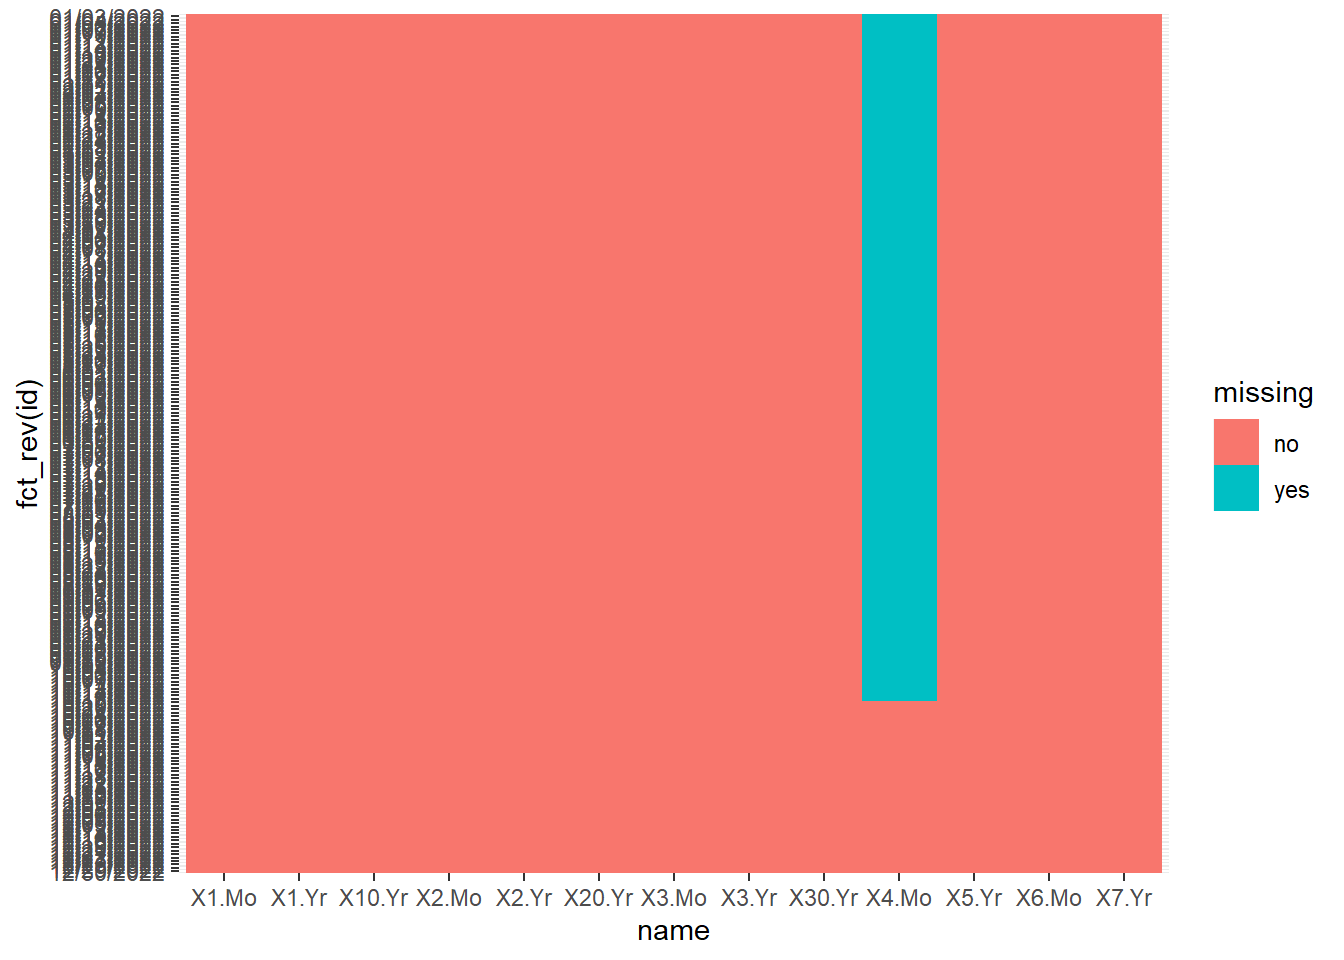
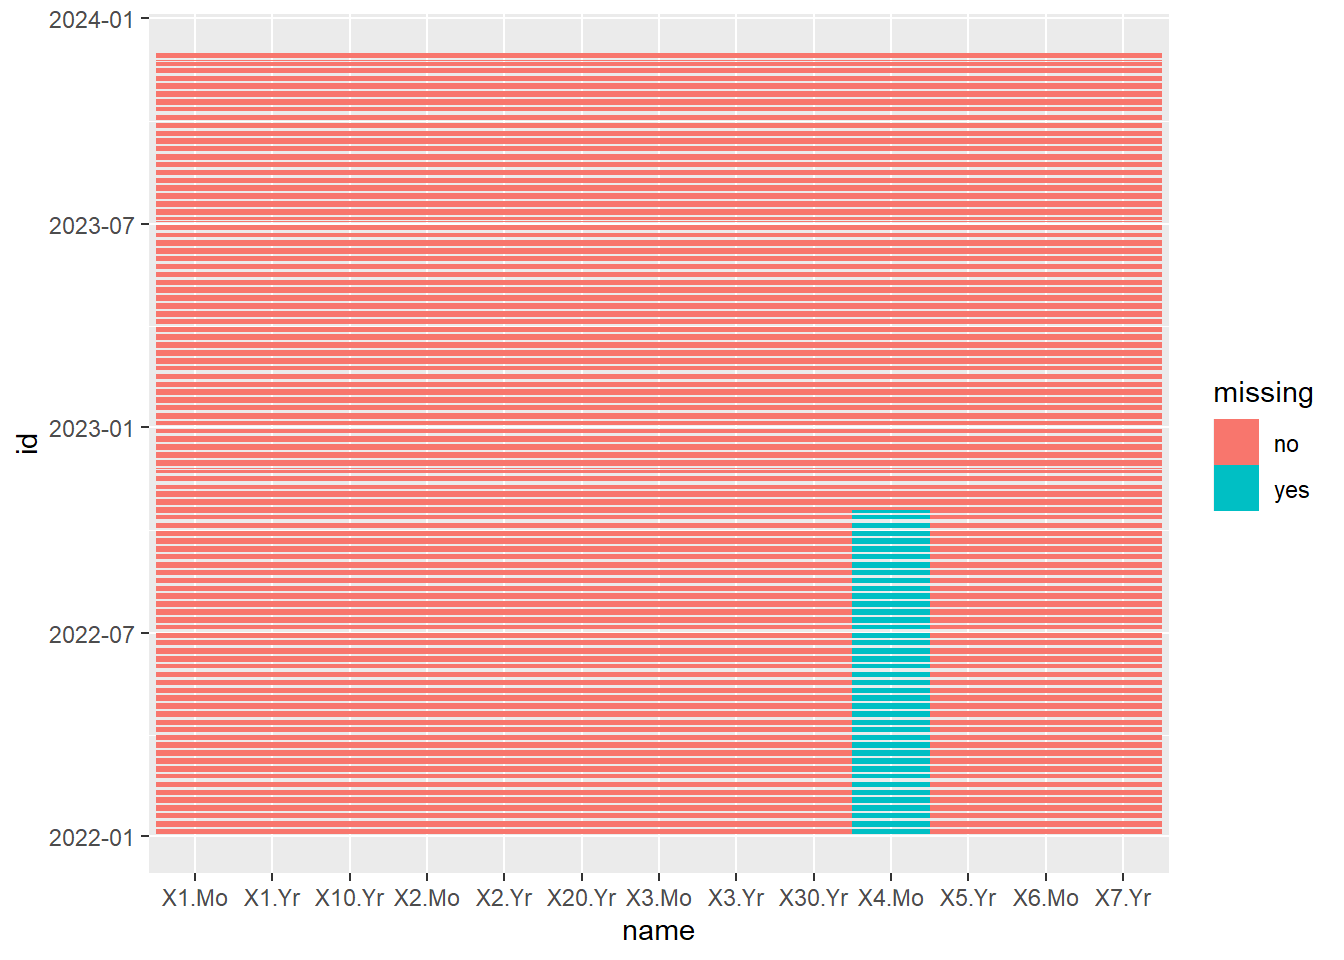
Eliminated Overlapping

diff --git a/docs/data.html b/docs/data.html
@@ -273,16 +273,17 @@ Attaching package: 'dplyr'</code></pre>
 <div class="cell">
 <details>
 <summary>Code</summary>
-<div class="sourceCode cell-code" id="cb10"><pre class="sourceCode r code-with-copy"><code class="sourceCode r"><span id="cb10-1"><a href="#cb10-1" aria-hidden="true" tabindex="-1"></a>df <span class="ot">&lt;-</span> APR22 <span class="sc">|&gt;</span> <span class="fu">column_to_rownames</span>(<span class="st">"Date"</span>)</span>
+<div class="sourceCode cell-code" id="cb10"><pre class="sourceCode r code-with-copy"><code class="sourceCode r"><span id="cb10-1"><a href="#cb10-1" aria-hidden="true" tabindex="-1"></a>df <span class="ot">&lt;-</span> APR <span class="sc">|&gt;</span> <span class="fu">column_to_rownames</span>(<span class="st">"Date"</span>)</span>
 <span id="cb10-2"><a href="#cb10-2" aria-hidden="true" tabindex="-1"></a>df <span class="ot">&lt;-</span> df <span class="sc">|&gt;</span> <span class="fu">rownames_to_column</span>(<span class="st">"id"</span>) <span class="sc">|&gt;</span> <span class="fu">pivot_longer</span>(<span class="at">cols =</span> <span class="sc">-</span>id) <span class="sc">|&gt;</span> <span class="fu">mutate</span>(<span class="at">missing =</span> <span class="fu">ifelse</span>(<span class="fu">is.na</span>(value),<span class="st">"yes"</span>,<span class="st">"no"</span>))</span>
-<span id="cb10-3"><a href="#cb10-3" aria-hidden="true" tabindex="-1"></a><span class="fu">ggplot</span>(df, <span class="fu">aes</span>(<span class="at">x=</span>name, <span class="at">y=</span><span class="fu">fct_rev</span>(id), <span class="at">fill =</span> missing)) <span class="sc">+</span> </span>
-<span id="cb10-4"><a href="#cb10-4" aria-hidden="true" tabindex="-1"></a><span class="fu">geom_tile</span>()</span></code><button title="Copy to Clipboard" class="code-copy-button"><i class="bi"></i></button></pre></div>
+<span id="cb10-3"><a href="#cb10-3" aria-hidden="true" tabindex="-1"></a>df <span class="ot">&lt;-</span> df <span class="sc">|&gt;</span> <span class="fu">mutate</span>(<span class="at">id =</span> <span class="fu">as.Date</span>(id, <span class="at">format =</span> <span class="st">"%m/%d/%Y"</span>))</span>
+<span id="cb10-4"><a href="#cb10-4" aria-hidden="true" tabindex="-1"></a><span class="fu">ggplot</span>(df, <span class="fu">aes</span>(<span class="at">x=</span>name, <span class="at">y=</span>id, <span class="at">fill =</span> missing)) <span class="sc">+</span> </span>
+<span id="cb10-5"><a href="#cb10-5" aria-hidden="true" tabindex="-1"></a>    <span class="fu">geom_tile</span>()</span></code><button title="Copy to Clipboard" class="code-copy-button"><i class="bi"></i></button></pre></div>
 </details>
 <div class="cell-output-display">
 <p><img src="data_files/figure-html/unnamed-chunk-3-1.png" class="img-fluid" width="672"></p>
 </div>
 </div>
-<p>since 10/18/2022 there are no 4 months interest rates.</p>
+<p>Before 10/18/2022 there are no 4 months interest rates.</p>
 
 
 </section>
